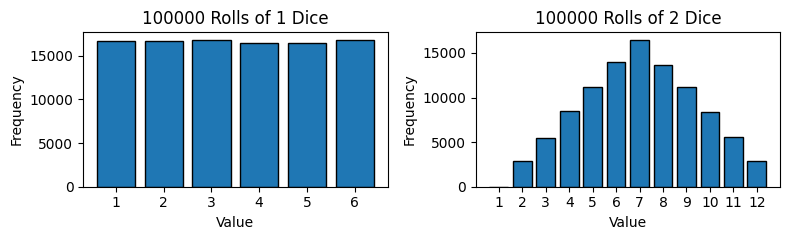
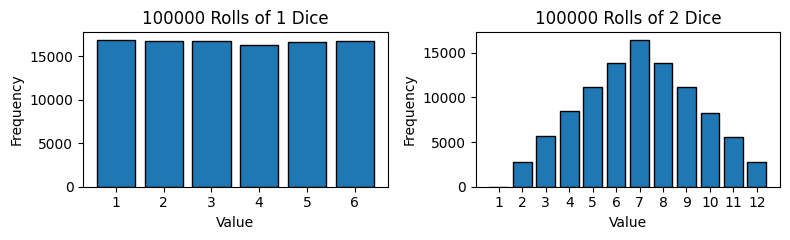
Deploying to gh-pages from @ w4bo/AA2627-unibo-mldm@07caa07ab10c2a81e735dd88d50cfdfee6ba17a9 🚀

diff --git a/06-modeling.html b/06-modeling.html
@@ -289,7 +289,7 @@ Matteo Francia <br> DISI — University of Bologna <br> m.francia@unibo.it
 <li><em>Feature extraction</em>: extract the features from data to define the attributes in image and text data</li>
 </ul></li>
 </ul>
-<div id="80e1c257" class="cell" data-quarto-private-1="{&quot;key&quot;:&quot;execution&quot;,&quot;value&quot;:{&quot;iopub.execute_input&quot;:&quot;2026-06-23T17:44:32.466861Z&quot;,&quot;iopub.status.busy&quot;:&quot;2026-06-23T17:44:32.466692Z&quot;,&quot;iopub.status.idle&quot;:&quot;2026-06-23T17:44:33.526073Z&quot;,&quot;shell.execute_reply&quot;:&quot;2026-06-23T17:44:33.525069Z&quot;}}" data-outputid="19814ad4-7ef0-47a6-c339-2729b5be8854" data-execution_count="1">
+<div id="80e1c257" class="cell" data-quarto-private-1="{&quot;key&quot;:&quot;execution&quot;,&quot;value&quot;:{&quot;iopub.execute_input&quot;:&quot;2026-06-24T06:20:33.725155Z&quot;,&quot;iopub.status.busy&quot;:&quot;2026-06-24T06:20:33.724912Z&quot;,&quot;iopub.status.idle&quot;:&quot;2026-06-24T06:20:34.788092Z&quot;,&quot;shell.execute_reply&quot;:&quot;2026-06-24T06:20:34.787165Z&quot;}}" data-outputid="19814ad4-7ef0-47a6-c339-2729b5be8854" data-execution_count="1">
 <details open="" class="code-fold">
 <summary>Code</summary>
 <div class="sourceCode cell-code" id="cb1"><pre class="sourceCode numberSource python number-lines"><code class="sourceCode python"><span id="cb1-1"><a href=""></a><span class="im">import</span> sklearn <span class="im">as</span> sk</span>
@@ -387,7 +387,7 @@ Matteo Francia <br> DISI — University of Bologna <br> m.francia@unibo.it
 
 <section id="datasets-in-sklearn" class="title-slide slide level1 center">
 <h1>Datasets in sklearn</h1>
-<div id="f54858f9" class="cell" data-quarto-private-1="{&quot;key&quot;:&quot;execution&quot;,&quot;value&quot;:{&quot;iopub.execute_input&quot;:&quot;2026-06-23T17:44:33.528411Z&quot;,&quot;iopub.status.busy&quot;:&quot;2026-06-23T17:44:33.528103Z&quot;,&quot;iopub.status.idle&quot;:&quot;2026-06-23T17:44:33.563940Z&quot;,&quot;shell.execute_reply&quot;:&quot;2026-06-23T17:44:33.563038Z&quot;}}" data-execution_count="2">
+<div id="f54858f9" class="cell" data-quarto-private-1="{&quot;key&quot;:&quot;execution&quot;,&quot;value&quot;:{&quot;iopub.execute_input&quot;:&quot;2026-06-24T06:20:34.790620Z&quot;,&quot;iopub.status.busy&quot;:&quot;2026-06-24T06:20:34.790296Z&quot;,&quot;iopub.status.idle&quot;:&quot;2026-06-24T06:20:34.826530Z&quot;,&quot;shell.execute_reply&quot;:&quot;2026-06-24T06:20:34.825651Z&quot;}}" data-execution_count="2">
 <details open="" class="code-fold">
 <summary>Code</summary>
 <div class="sourceCode cell-code" id="cb12"><pre class="sourceCode numberSource python number-lines"><code class="sourceCode python"><span id="cb12-1"><a href=""></a><span class="im">import</span> sklearn.datasets <span class="im">as</span> datasets</span>
@@ -413,7 +413,7 @@ load_wine</code></pre>
 
 <section id="the-iris-dataset" class="title-slide slide level1 center">
 <h1>The <code>Iris</code> dataset</h1>
-<div id="Y-nsPIhDQe89" class="cell" data-quarto-private-1="{&quot;key&quot;:&quot;execution&quot;,&quot;value&quot;:{&quot;iopub.execute_input&quot;:&quot;2026-06-23T17:44:33.565737Z&quot;,&quot;iopub.status.busy&quot;:&quot;2026-06-23T17:44:33.565559Z&quot;,&quot;iopub.status.idle&quot;:&quot;2026-06-23T17:44:33.581526Z&quot;,&quot;shell.execute_reply&quot;:&quot;2026-06-23T17:44:33.580682Z&quot;}}" data-outputid="d019e408-35e4-4d21-d78a-9b92b6784e2a" data-execution_count="3">
+<div id="Y-nsPIhDQe89" class="cell" data-quarto-private-1="{&quot;key&quot;:&quot;execution&quot;,&quot;value&quot;:{&quot;iopub.execute_input&quot;:&quot;2026-06-24T06:20:34.828344Z&quot;,&quot;iopub.status.busy&quot;:&quot;2026-06-24T06:20:34.828157Z&quot;,&quot;iopub.status.idle&quot;:&quot;2026-06-24T06:20:34.844448Z&quot;,&quot;shell.execute_reply&quot;:&quot;2026-06-24T06:20:34.843629Z&quot;}}" data-outputid="d019e408-35e4-4d21-d78a-9b92b6784e2a" data-execution_count="3">
 <details open="" class="code-fold">
 <summary>Code</summary>
 <div class="sourceCode cell-code" id="cb14"><pre class="sourceCode numberSource python number-lines"><code class="sourceCode python"><span id="cb14-1"><a href=""></a><span class="im">from</span> sklearn.datasets <span class="im">import</span> load_iris</span>
@@ -552,7 +552,7 @@ load_wine</code></pre>
 
 <section id="profiling" class="title-slide slide level1 center">
 <h1>Profiling</h1>
-<div id="ohmh7Kc8Nvm7" class="cell" data-quarto-private-1="{&quot;key&quot;:&quot;execution&quot;,&quot;value&quot;:{&quot;iopub.execute_input&quot;:&quot;2026-06-23T17:44:33.583251Z&quot;,&quot;iopub.status.busy&quot;:&quot;2026-06-23T17:44:33.583049Z&quot;,&quot;iopub.status.idle&quot;:&quot;2026-06-23T17:44:33.590038Z&quot;,&quot;shell.execute_reply&quot;:&quot;2026-06-23T17:44:33.588947Z&quot;}}" data-outputid="3a9f740a-1006-4b5d-9d44-ff192314d6a1" data-execution_count="4">
+<div id="ohmh7Kc8Nvm7" class="cell" data-quarto-private-1="{&quot;key&quot;:&quot;execution&quot;,&quot;value&quot;:{&quot;iopub.execute_input&quot;:&quot;2026-06-24T06:20:34.846514Z&quot;,&quot;iopub.status.busy&quot;:&quot;2026-06-24T06:20:34.846297Z&quot;,&quot;iopub.status.idle&quot;:&quot;2026-06-24T06:20:34.853265Z&quot;,&quot;shell.execute_reply&quot;:&quot;2026-06-24T06:20:34.852370Z&quot;}}" data-outputid="3a9f740a-1006-4b5d-9d44-ff192314d6a1" data-execution_count="4">
 <details open="" class="code-fold">
 <summary>Code</summary>
 <div class="sourceCode cell-code" id="cb15"><pre class="sourceCode numberSource python number-lines"><code class="sourceCode python"><span id="cb15-1"><a href=""></a>df.info()</span></code></pre></div>
@@ -576,7 +576,7 @@ memory usage: 6.0 KB</code></pre>
 
 <section id="training-and-test-sets-1" class="title-slide slide level1 center">
 <h1>Training and test sets</h1>
-<div id="fOKkpeA2NeEs" class="cell" data-quarto-private-1="{&quot;key&quot;:&quot;execution&quot;,&quot;value&quot;:{&quot;iopub.execute_input&quot;:&quot;2026-06-23T17:44:33.591752Z&quot;,&quot;iopub.status.busy&quot;:&quot;2026-06-23T17:44:33.591579Z&quot;,&quot;iopub.status.idle&quot;:&quot;2026-06-23T17:44:33.618054Z&quot;,&quot;shell.execute_reply&quot;:&quot;2026-06-23T17:44:33.617308Z&quot;}}" data-execution_count="5">
+<div id="fOKkpeA2NeEs" class="cell" data-quarto-private-1="{&quot;key&quot;:&quot;execution&quot;,&quot;value&quot;:{&quot;iopub.execute_input&quot;:&quot;2026-06-24T06:20:34.855248Z&quot;,&quot;iopub.status.busy&quot;:&quot;2026-06-24T06:20:34.854926Z&quot;,&quot;iopub.status.idle&quot;:&quot;2026-06-24T06:20:34.882651Z&quot;,&quot;shell.execute_reply&quot;:&quot;2026-06-24T06:20:34.881802Z&quot;}}" data-execution_count="5">
 <details open="" class="code-fold">
 <summary>Code</summary>
 <div class="sourceCode cell-code" id="cb17"><pre class="sourceCode numberSource python number-lines"><code class="sourceCode python"><span id="cb17-1"><a href=""></a><span class="co"># Split the data into training and test sets</span></span>
@@ -614,7 +614,7 @@ y_test: (30,)</code></pre>
 <section id="section-1" class="title-slide slide level1 center">
 <h1></h1>
 <p>When throwing two dice, the outcome of any roll is unpredictable, but a sum of 7 will tend to occur twice as often as 4</p>
-<div id="a1a121cf" class="cell" data-quarto-private-1="{&quot;key&quot;:&quot;execution&quot;,&quot;value&quot;:{&quot;iopub.execute_input&quot;:&quot;2026-06-23T17:44:33.620063Z&quot;,&quot;iopub.status.busy&quot;:&quot;2026-06-23T17:44:33.619889Z&quot;,&quot;iopub.status.idle&quot;:&quot;2026-06-23T17:44:37.680121Z&quot;,&quot;shell.execute_reply&quot;:&quot;2026-06-23T17:44:37.679276Z&quot;}}" data-execution_count="6">
+<div id="a1a121cf" class="cell" data-quarto-private-1="{&quot;key&quot;:&quot;execution&quot;,&quot;value&quot;:{&quot;iopub.execute_input&quot;:&quot;2026-06-24T06:20:34.884546Z&quot;,&quot;iopub.status.busy&quot;:&quot;2026-06-24T06:20:34.884345Z&quot;,&quot;iopub.status.idle&quot;:&quot;2026-06-24T06:20:38.672846Z&quot;,&quot;shell.execute_reply&quot;:&quot;2026-06-24T06:20:38.671817Z&quot;}}" data-execution_count="6">
 <details open="" class="code-fold">
 <summary>Code</summary>
 <div class="sourceCode cell-code" id="cb19"><pre class="sourceCode numberSource python number-lines"><code class="sourceCode python"><span id="cb19-1"><a href=""></a><span class="im">import</span> matplotlib.pyplot <span class="im">as</span> plt</span>
@@ -641,7 +641,7 @@ y_test: (30,)</code></pre>
 <li>The PRNG-generated sequence is not truly random, because it is completely determined by an initial value, called <em>seed</em></li>
 <li>Pseudorandom number generators are important in practice for their reproducibility.</li>
 </ul>
-<div id="4210a099" class="cell" data-quarto-private-1="{&quot;key&quot;:&quot;execution&quot;,&quot;value&quot;:{&quot;iopub.execute_input&quot;:&quot;2026-06-23T17:44:37.682425Z&quot;,&quot;iopub.status.busy&quot;:&quot;2026-06-23T17:44:37.682096Z&quot;,&quot;iopub.status.idle&quot;:&quot;2026-06-23T17:44:37.687859Z&quot;,&quot;shell.execute_reply&quot;:&quot;2026-06-23T17:44:37.686882Z&quot;}}" data-execution_count="7">
+<div id="4210a099" class="cell" data-quarto-private-1="{&quot;key&quot;:&quot;execution&quot;,&quot;value&quot;:{&quot;iopub.execute_input&quot;:&quot;2026-06-24T06:20:38.674874Z&quot;,&quot;iopub.status.busy&quot;:&quot;2026-06-24T06:20:38.674556Z&quot;,&quot;iopub.status.idle&quot;:&quot;2026-06-24T06:20:38.679913Z&quot;,&quot;shell.execute_reply&quot;:&quot;2026-06-24T06:20:38.679094Z&quot;}}" data-execution_count="7">
 <details open="" class="code-fold">
 <summary>Code</summary>
 <div class="sourceCode cell-code" id="cb20"><pre class="sourceCode numberSource python number-lines"><code class="sourceCode python"><span id="cb20-1"><a href=""></a><span class="bu">print</span>(np.random.randint(<span class="dv">1</span>, <span class="dv">7</span>, size<span class="op">=</span><span class="dv">10</span>))</span>
@@ -655,8 +655,8 @@ y_test: (30,)</code></pre>
 <span id="cb20-9"><a href=""></a><span class="bu">print</span>(np.random.randint(<span class="dv">1</span>, <span class="dv">7</span>, size<span class="op">=</span><span class="dv">10</span>))</span></code></pre></div>
 </details>
 <div class="cell-output cell-output-stdout">
-<pre><code>[2 4 3 5 2 5 4 3 6 6]
-[1 5 6 5 4 3 4 6 4 3]
+<pre><code>[5 2 6 1 3 1 6 1 1 3]
+[2 6 5 2 4 3 2 5 1 1]
 [4 5 3 5 5 2 3 3 3 5]
 [4 5 3 5 5 2 3 3 3 5]
 [4 5 3 5 5 2 3 3 3 5]
@@ -704,7 +704,7 @@ y_test: (30,)</code></pre>
 <section>
 <section id="decision-tree" class="title-slide slide level1 center">
 <h1>Decision tree</h1>
-<div id="qRGDyke9OGij" class="cell" data-quarto-private-1="{&quot;key&quot;:&quot;execution&quot;,&quot;value&quot;:{&quot;iopub.execute_input&quot;:&quot;2026-06-23T17:44:37.689721Z&quot;,&quot;iopub.status.busy&quot;:&quot;2026-06-23T17:44:37.689548Z&quot;,&quot;iopub.status.idle&quot;:&quot;2026-06-23T17:44:37.747371Z&quot;,&quot;shell.execute_reply&quot;:&quot;2026-06-23T17:44:37.746514Z&quot;}}" data-outputid="28adc7ac-dafc-4623-98c5-dda0795d6ca5" data-execution_count="8">
+<div id="qRGDyke9OGij" class="cell" data-quarto-private-1="{&quot;key&quot;:&quot;execution&quot;,&quot;value&quot;:{&quot;iopub.execute_input&quot;:&quot;2026-06-24T06:20:38.682132Z&quot;,&quot;iopub.status.busy&quot;:&quot;2026-06-24T06:20:38.681953Z&quot;,&quot;iopub.status.idle&quot;:&quot;2026-06-24T06:20:38.742060Z&quot;,&quot;shell.execute_reply&quot;:&quot;2026-06-24T06:20:38.741144Z&quot;}}" data-outputid="28adc7ac-dafc-4623-98c5-dda0795d6ca5" data-execution_count="8">
 <details open="" class="code-fold">
 <summary>Code</summary>
 <div class="sourceCode cell-code" id="cb22"><pre class="sourceCode numberSource python number-lines"><code class="sourceCode python"><span id="cb22-1"><a href=""></a><span class="im">from</span> sklearn.tree <span class="im">import</span> DecisionTreeClassifier  <span class="co"># Import the model</span></span>
@@ -722,7 +722,7 @@ y_test: (30,)</code></pre>
 </section>
 <section id="plotting-the-tree" class="slide level2">
 <h2>Plotting the tree</h2>
-<div id="TCYt3BziRjqK" class="cell" data-quarto-private-1="{&quot;key&quot;:&quot;execution&quot;,&quot;value&quot;:{&quot;iopub.execute_input&quot;:&quot;2026-06-23T17:44:37.749142Z&quot;,&quot;iopub.status.busy&quot;:&quot;2026-06-23T17:44:37.748964Z&quot;,&quot;iopub.status.idle&quot;:&quot;2026-06-23T17:44:37.899132Z&quot;,&quot;shell.execute_reply&quot;:&quot;2026-06-23T17:44:37.898324Z&quot;}}" data-outputid="a5c6ce55-6e0d-4504-e4c8-408382791a1d" data-execution_count="9">
+<div id="TCYt3BziRjqK" class="cell" data-quarto-private-1="{&quot;key&quot;:&quot;execution&quot;,&quot;value&quot;:{&quot;iopub.execute_input&quot;:&quot;2026-06-24T06:20:38.743922Z&quot;,&quot;iopub.status.busy&quot;:&quot;2026-06-24T06:20:38.743730Z&quot;,&quot;iopub.status.idle&quot;:&quot;2026-06-24T06:20:38.899183Z&quot;,&quot;shell.execute_reply&quot;:&quot;2026-06-24T06:20:38.898260Z&quot;}}" data-outputid="a5c6ce55-6e0d-4504-e4c8-408382791a1d" data-execution_count="9">
 <details open="" class="code-fold">
 <summary>Code</summary>
 <div class="sourceCode cell-code" id="cb24"><pre class="sourceCode numberSource python number-lines"><code class="sourceCode python"><span id="cb24-1"><a href=""></a><span class="im">from</span> sklearn.tree <span class="im">import</span> plot_tree</span>
@@ -732,7 +732,7 @@ y_test: (30,)</code></pre>
 
 </div>
 <img data-src="06-modeling_files/figure-revealjs/cell-10-output-1.png" class="r-stretch"><p>Checking feature relevance</p>
-<div id="JV7m4ZKqPaJm" class="cell" data-quarto-private-1="{&quot;key&quot;:&quot;execution&quot;,&quot;value&quot;:{&quot;iopub.execute_input&quot;:&quot;2026-06-23T17:44:37.901072Z&quot;,&quot;iopub.status.busy&quot;:&quot;2026-06-23T17:44:37.900896Z&quot;,&quot;iopub.status.idle&quot;:&quot;2026-06-23T17:44:37.909551Z&quot;,&quot;shell.execute_reply&quot;:&quot;2026-06-23T17:44:37.908672Z&quot;}}" data-outputid="efeb6271-4cec-4fcb-b621-84f298272ad7" data-execution_count="10">
+<div id="JV7m4ZKqPaJm" class="cell" data-quarto-private-1="{&quot;key&quot;:&quot;execution&quot;,&quot;value&quot;:{&quot;iopub.execute_input&quot;:&quot;2026-06-24T06:20:38.901129Z&quot;,&quot;iopub.status.busy&quot;:&quot;2026-06-24T06:20:38.900918Z&quot;,&quot;iopub.status.idle&quot;:&quot;2026-06-24T06:20:38.910278Z&quot;,&quot;shell.execute_reply&quot;:&quot;2026-06-24T06:20:38.909375Z&quot;}}" data-outputid="efeb6271-4cec-4fcb-b621-84f298272ad7" data-execution_count="10">
 <details open="" class="code-fold">
 <summary>Code</summary>
 <div class="sourceCode cell-code" id="cb25"><pre class="sourceCode numberSource python number-lines"><code class="sourceCode python"><span id="cb25-1"><a href=""></a>feature_importance_df <span class="op">=</span> pd.DataFrame({<span class="st">'Feature'</span>: X.columns, <span class="st">'Importance'</span>: clf.feature_importances_})  <span class="co"># Create a DataFrame to display feature importance</span></span>
@@ -793,7 +793,7 @@ y_test: (30,)</code></pre>
 </section></section>
 <section id="petal-vs-sepal" class="title-slide slide level1 center">
 <h1><code>petal</code> vs <code>sepal</code></h1>
-<div id="8h4GlwOOPlz3" class="cell" data-quarto-private-1="{&quot;key&quot;:&quot;execution&quot;,&quot;value&quot;:{&quot;iopub.execute_input&quot;:&quot;2026-06-23T17:44:37.917411Z&quot;,&quot;iopub.status.busy&quot;:&quot;2026-06-23T17:44:37.917222Z&quot;,&quot;iopub.status.idle&quot;:&quot;2026-06-23T17:44:38.011081Z&quot;,&quot;shell.execute_reply&quot;:&quot;2026-06-23T17:44:38.010202Z&quot;}}" data-outputid="a3ff9957-5136-4fe3-d3e0-dc7a7ddf2bfe" data-execution_count="12">
+<div id="8h4GlwOOPlz3" class="cell" data-quarto-private-1="{&quot;key&quot;:&quot;execution&quot;,&quot;value&quot;:{&quot;iopub.execute_input&quot;:&quot;2026-06-24T06:20:38.918287Z&quot;,&quot;iopub.status.busy&quot;:&quot;2026-06-24T06:20:38.918095Z&quot;,&quot;iopub.status.idle&quot;:&quot;2026-06-24T06:20:39.014715Z&quot;,&quot;shell.execute_reply&quot;:&quot;2026-06-24T06:20:39.013778Z&quot;}}" data-outputid="a3ff9957-5136-4fe3-d3e0-dc7a7ddf2bfe" data-execution_count="12">
 <details open="" class="code-fold">
 <summary>Code</summary>
 <div class="sourceCode cell-code" id="cb26"><pre class="sourceCode numberSource python number-lines"><code class="sourceCode python"><span id="cb26-1"><a href=""></a>plot(df, clf, feature_importance_df[<span class="st">'Feature'</span>].iloc[:<span class="dv">2</span>].tolist())  <span class="co"># plot the 2 most important features</span></span></code></pre></div>
@@ -806,7 +806,7 @@ y_test: (30,)</code></pre>
 </div>
 </div>
 </div>
-<div id="nFNaqWIOT-Rd" class="cell" data-quarto-private-1="{&quot;key&quot;:&quot;execution&quot;,&quot;value&quot;:{&quot;iopub.execute_input&quot;:&quot;2026-06-23T17:44:38.012749Z&quot;,&quot;iopub.status.busy&quot;:&quot;2026-06-23T17:44:38.012573Z&quot;,&quot;iopub.status.idle&quot;:&quot;2026-06-23T17:44:38.107006Z&quot;,&quot;shell.execute_reply&quot;:&quot;2026-06-23T17:44:38.106178Z&quot;}}" data-outputid="e57d7a46-c26b-4bfc-c956-f67944b26ada" data-execution_count="13">
+<div id="nFNaqWIOT-Rd" class="cell" data-quarto-private-1="{&quot;key&quot;:&quot;execution&quot;,&quot;value&quot;:{&quot;iopub.execute_input&quot;:&quot;2026-06-24T06:20:39.016755Z&quot;,&quot;iopub.status.busy&quot;:&quot;2026-06-24T06:20:39.016389Z&quot;,&quot;iopub.status.idle&quot;:&quot;2026-06-24T06:20:39.114905Z&quot;,&quot;shell.execute_reply&quot;:&quot;2026-06-24T06:20:39.113927Z&quot;}}" data-outputid="e57d7a46-c26b-4bfc-c956-f67944b26ada" data-execution_count="13">
 <details open="" class="code-fold">
 <summary>Code</summary>
 <div class="sourceCode cell-code" id="cb27"><pre class="sourceCode numberSource python number-lines"><code class="sourceCode python"><span id="cb27-1"><a href=""></a>plot(df, clf, feature_importance_df[<span class="st">'Feature'</span>].iloc[<span class="dv">2</span>:].tolist())  <span class="co"># plot the 2 lest important features</span></span></code></pre></div>
@@ -823,7 +823,7 @@ y_test: (30,)</code></pre>
 
 <section id="feature-selection-checking-correlations" class="title-slide slide level1 center">
 <h1>Feature selection: checking correlations</h1>
-<div id="e8799449" class="cell" data-quarto-private-1="{&quot;key&quot;:&quot;execution&quot;,&quot;value&quot;:{&quot;iopub.execute_input&quot;:&quot;2026-06-23T17:44:38.108770Z&quot;,&quot;iopub.status.busy&quot;:&quot;2026-06-23T17:44:38.108594Z&quot;,&quot;iopub.status.idle&quot;:&quot;2026-06-23T17:44:38.115945Z&quot;,&quot;shell.execute_reply&quot;:&quot;2026-06-23T17:44:38.114934Z&quot;}}" data-execution_count="14">
+<div id="e8799449" class="cell" data-quarto-private-1="{&quot;key&quot;:&quot;execution&quot;,&quot;value&quot;:{&quot;iopub.execute_input&quot;:&quot;2026-06-24T06:20:39.116810Z&quot;,&quot;iopub.status.busy&quot;:&quot;2026-06-24T06:20:39.116610Z&quot;,&quot;iopub.status.idle&quot;:&quot;2026-06-24T06:20:39.124271Z&quot;,&quot;shell.execute_reply&quot;:&quot;2026-06-24T06:20:39.123500Z&quot;}}" data-execution_count="14">
 <details open="" class="code-fold">
 <summary>Code</summary>
 <div class="sourceCode cell-code" id="cb28"><pre class="sourceCode numberSource python number-lines"><code class="sourceCode python"><span id="cb28-1"><a href=""></a>X_train.corr(method<span class="op">=</span><span class="st">'pearson'</span>, numeric_only<span class="op">=</span><span class="va">True</span>)</span></code></pre></div>
@@ -898,7 +898,7 @@ y_test: (30,)</code></pre>
 
 <section id="decision-boundaries-max_depth1" class="title-slide slide level1 center">
 <h1>Decision boundaries: <code>max_depth=1</code></h1>
-<div id="5d66e1c0" class="cell" data-quarto-private-1="{&quot;key&quot;:&quot;execution&quot;,&quot;value&quot;:{&quot;iopub.execute_input&quot;:&quot;2026-06-23T17:44:38.129715Z&quot;,&quot;iopub.status.busy&quot;:&quot;2026-06-23T17:44:38.129546Z&quot;,&quot;iopub.status.idle&quot;:&quot;2026-06-23T17:44:38.543421Z&quot;,&quot;shell.execute_reply&quot;:&quot;2026-06-23T17:44:38.542472Z&quot;}}" data-execution_count="16">
+<div id="5d66e1c0" class="cell" data-quarto-private-1="{&quot;key&quot;:&quot;execution&quot;,&quot;value&quot;:{&quot;iopub.execute_input&quot;:&quot;2026-06-24T06:20:39.138550Z&quot;,&quot;iopub.status.busy&quot;:&quot;2026-06-24T06:20:39.138341Z&quot;,&quot;iopub.status.idle&quot;:&quot;2026-06-24T06:20:39.556670Z&quot;,&quot;shell.execute_reply&quot;:&quot;2026-06-24T06:20:39.555631Z&quot;}}" data-execution_count="16">
 <details open="" class="code-fold">
 <summary>Code</summary>
 <div class="sourceCode cell-code" id="cb29"><pre class="sourceCode numberSource python number-lines"><code class="sourceCode python"><span id="cb29-1"><a href=""></a>tree <span class="op">=</span> plot_boundary(DecisionTreeClassifier(max_depth<span class="op">=</span><span class="dv">1</span>, random_state<span class="op">=</span>seed), <span class="st">"decisiontree_cplot"</span>)</span></code></pre></div>
@@ -909,7 +909,7 @@ y_test: (30,)</code></pre>
 
 <section id="decision-boundaries-max_depth2" class="title-slide slide level1 center">
 <h1>Decision boundaries: <code>max_depth=2</code></h1>
-<div id="a334f69e" class="cell" data-quarto-private-1="{&quot;key&quot;:&quot;execution&quot;,&quot;value&quot;:{&quot;iopub.execute_input&quot;:&quot;2026-06-23T17:44:38.545490Z&quot;,&quot;iopub.status.busy&quot;:&quot;2026-06-23T17:44:38.545309Z&quot;,&quot;iopub.status.idle&quot;:&quot;2026-06-23T17:44:38.954492Z&quot;,&quot;shell.execute_reply&quot;:&quot;2026-06-23T17:44:38.953459Z&quot;}}" data-execution_count="17">
+<div id="a334f69e" class="cell" data-quarto-private-1="{&quot;key&quot;:&quot;execution&quot;,&quot;value&quot;:{&quot;iopub.execute_input&quot;:&quot;2026-06-24T06:20:39.558678Z&quot;,&quot;iopub.status.busy&quot;:&quot;2026-06-24T06:20:39.558469Z&quot;,&quot;iopub.status.idle&quot;:&quot;2026-06-24T06:20:39.979079Z&quot;,&quot;shell.execute_reply&quot;:&quot;2026-06-24T06:20:39.978118Z&quot;}}" data-execution_count="17">
 <details open="" class="code-fold">
 <summary>Code</summary>
 <div class="sourceCode cell-code" id="cb30"><pre class="sourceCode numberSource python number-lines"><code class="sourceCode python"><span id="cb30-1"><a href=""></a>tree <span class="op">=</span> plot_boundary(DecisionTreeClassifier(max_depth<span class="op">=</span><span class="dv">2</span>, random_state<span class="op">=</span>seed), <span class="st">"decisiontree_cplot"</span>)</span></code></pre></div>
@@ -920,7 +920,7 @@ y_test: (30,)</code></pre>
 
 <section id="decision-boundaries-max_depth2-changing-the-random-seed" class="title-slide slide level1 center">
 <h1>Decision boundaries: <code>max_depth=2</code> (changing the random seed)</h1>
-<div id="648564ec" class="cell" data-quarto-private-1="{&quot;key&quot;:&quot;execution&quot;,&quot;value&quot;:{&quot;iopub.execute_input&quot;:&quot;2026-06-23T17:44:38.956439Z&quot;,&quot;iopub.status.busy&quot;:&quot;2026-06-23T17:44:38.956247Z&quot;,&quot;iopub.status.idle&quot;:&quot;2026-06-23T17:44:39.374906Z&quot;,&quot;shell.execute_reply&quot;:&quot;2026-06-23T17:44:39.373947Z&quot;}}" data-execution_count="18">
+<div id="648564ec" class="cell" data-quarto-private-1="{&quot;key&quot;:&quot;execution&quot;,&quot;value&quot;:{&quot;iopub.execute_input&quot;:&quot;2026-06-24T06:20:39.980942Z&quot;,&quot;iopub.status.busy&quot;:&quot;2026-06-24T06:20:39.980747Z&quot;,&quot;iopub.status.idle&quot;:&quot;2026-06-24T06:20:40.398856Z&quot;,&quot;shell.execute_reply&quot;:&quot;2026-06-24T06:20:40.397869Z&quot;}}" data-execution_count="18">
 <details open="" class="code-fold">
 <summary>Code</summary>
 <div class="sourceCode cell-code" id="cb31"><pre class="sourceCode numberSource python number-lines"><code class="sourceCode python"><span id="cb31-1"><a href=""></a>tree <span class="op">=</span> plot_boundary(DecisionTreeClassifier(max_depth<span class="op">=</span><span class="dv">2</span>, random_state<span class="op">=</span><span class="dv">1</span>), <span class="st">"decisiontree_cplot"</span>)</span></code></pre></div>
@@ -931,7 +931,7 @@ y_test: (30,)</code></pre>
 
 <section id="decision-boundaries-max_depth3" class="title-slide slide level1 center">
 <h1>Decision boundaries: <code>max_depth=3</code></h1>
-<div id="11077234" class="cell" data-quarto-private-1="{&quot;key&quot;:&quot;execution&quot;,&quot;value&quot;:{&quot;iopub.execute_input&quot;:&quot;2026-06-23T17:44:39.376817Z&quot;,&quot;iopub.status.busy&quot;:&quot;2026-06-23T17:44:39.376616Z&quot;,&quot;iopub.status.idle&quot;:&quot;2026-06-23T17:44:39.831112Z&quot;,&quot;shell.execute_reply&quot;:&quot;2026-06-23T17:44:39.830317Z&quot;}}" data-execution_count="19">
+<div id="11077234" class="cell" data-quarto-private-1="{&quot;key&quot;:&quot;execution&quot;,&quot;value&quot;:{&quot;iopub.execute_input&quot;:&quot;2026-06-24T06:20:40.400863Z&quot;,&quot;iopub.status.busy&quot;:&quot;2026-06-24T06:20:40.400672Z&quot;,&quot;iopub.status.idle&quot;:&quot;2026-06-24T06:20:40.816309Z&quot;,&quot;shell.execute_reply&quot;:&quot;2026-06-24T06:20:40.815228Z&quot;}}" data-execution_count="19">
 <details open="" class="code-fold">
 <summary>Code</summary>
 <div class="sourceCode cell-code" id="cb32"><pre class="sourceCode numberSource python number-lines"><code class="sourceCode python"><span id="cb32-1"><a href=""></a>tree <span class="op">=</span> plot_boundary(DecisionTreeClassifier(max_depth<span class="op">=</span><span class="dv">3</span>, random_state<span class="op">=</span>seed), <span class="st">"decisiontree_cplot"</span>)</span></code></pre></div>
@@ -942,7 +942,7 @@ y_test: (30,)</code></pre>
 
 <section id="decision-boundaries-max_depth6" class="title-slide slide level1 center">
 <h1>Decision boundaries: <code>max_depth=6</code></h1>
-<div id="6fd5a7ac" class="cell" data-quarto-private-1="{&quot;key&quot;:&quot;execution&quot;,&quot;value&quot;:{&quot;iopub.execute_input&quot;:&quot;2026-06-23T17:44:39.833409Z&quot;,&quot;iopub.status.busy&quot;:&quot;2026-06-23T17:44:39.833221Z&quot;,&quot;iopub.status.idle&quot;:&quot;2026-06-23T17:44:40.286110Z&quot;,&quot;shell.execute_reply&quot;:&quot;2026-06-23T17:44:40.285166Z&quot;}}" data-execution_count="20">
+<div id="6fd5a7ac" class="cell" data-quarto-private-1="{&quot;key&quot;:&quot;execution&quot;,&quot;value&quot;:{&quot;iopub.execute_input&quot;:&quot;2026-06-24T06:20:40.818291Z&quot;,&quot;iopub.status.busy&quot;:&quot;2026-06-24T06:20:40.818098Z&quot;,&quot;iopub.status.idle&quot;:&quot;2026-06-24T06:20:41.234736Z&quot;,&quot;shell.execute_reply&quot;:&quot;2026-06-24T06:20:41.233851Z&quot;}}" data-execution_count="20">
 <details open="" class="code-fold">
 <summary>Code</summary>
 <div class="sourceCode cell-code" id="cb33"><pre class="sourceCode numberSource python number-lines"><code class="sourceCode python"><span id="cb33-1"><a href=""></a>tree <span class="op">=</span> plot_boundary(DecisionTreeClassifier(max_depth<span class="op">=</span><span class="dv">6</span>, random_state<span class="op">=</span>seed), <span class="st">"decisiontree_cplot"</span>)</span></code></pre></div>
@@ -953,7 +953,7 @@ y_test: (30,)</code></pre>
 
 <section id="plotting-the-accuracy" class="title-slide slide level1 center">
 <h1>Plotting the accuracy</h1>
-<div id="b0ec6d95" class="cell" data-quarto-private-1="{&quot;key&quot;:&quot;execution&quot;,&quot;value&quot;:{&quot;iopub.execute_input&quot;:&quot;2026-06-23T17:44:40.288215Z&quot;,&quot;iopub.status.busy&quot;:&quot;2026-06-23T17:44:40.287983Z&quot;,&quot;iopub.status.idle&quot;:&quot;2026-06-23T17:44:40.439068Z&quot;,&quot;shell.execute_reply&quot;:&quot;2026-06-23T17:44:40.438282Z&quot;}}" data-execution_count="21">
+<div id="b0ec6d95" class="cell" data-quarto-private-1="{&quot;key&quot;:&quot;execution&quot;,&quot;value&quot;:{&quot;iopub.execute_input&quot;:&quot;2026-06-24T06:20:41.236783Z&quot;,&quot;iopub.status.busy&quot;:&quot;2026-06-24T06:20:41.236576Z&quot;,&quot;iopub.status.idle&quot;:&quot;2026-06-24T06:20:41.390033Z&quot;,&quot;shell.execute_reply&quot;:&quot;2026-06-24T06:20:41.389079Z&quot;}}" data-execution_count="21">
 <details open="" class="code-fold">
 <summary>Code</summary>
 <div class="sourceCode cell-code" id="cb34"><pre class="sourceCode numberSource python number-lines"><code class="sourceCode python"><span id="cb34-1"><a href=""></a><span class="co"># Prepare to store max_depth values and corresponding accuracies</span></span>
@@ -1062,7 +1062,7 @@ y_test: (30,)</code></pre>
 
 <section id="random-forest" class="title-slide slide level1 center">
 <h1>Random forest</h1>
-<div id="aa8c6cae" class="cell" data-quarto-private-1="{&quot;key&quot;:&quot;execution&quot;,&quot;value&quot;:{&quot;iopub.execute_input&quot;:&quot;2026-06-23T17:44:40.801904Z&quot;,&quot;iopub.status.busy&quot;:&quot;2026-06-23T17:44:40.801724Z&quot;,&quot;iopub.status.idle&quot;:&quot;2026-06-23T17:44:58.669276Z&quot;,&quot;shell.execute_reply&quot;:&quot;2026-06-23T17:44:58.668285Z&quot;}}" data-execution_count="24">
+<div id="aa8c6cae" class="cell" data-quarto-private-1="{&quot;key&quot;:&quot;execution&quot;,&quot;value&quot;:{&quot;iopub.execute_input&quot;:&quot;2026-06-24T06:20:41.758116Z&quot;,&quot;iopub.status.busy&quot;:&quot;2026-06-24T06:20:41.757906Z&quot;,&quot;iopub.status.idle&quot;:&quot;2026-06-24T06:20:59.487748Z&quot;,&quot;shell.execute_reply&quot;:&quot;2026-06-24T06:20:59.486679Z&quot;}}" data-execution_count="24">
 <details open="" class="code-fold">
 <summary>Code</summary>
 <div class="sourceCode cell-code" id="cb36"><pre class="sourceCode numberSource python number-lines"><code class="sourceCode python"><span id="cb36-1"><a href=""></a><span class="im">from</span> sklearn.model_selection <span class="im">import</span> RandomizedSearchCV</span>
@@ -1103,7 +1103,7 @@ Best Cross-validation Accuracy: 0.9583333333333334 Test Set Accuracy with Best P
 
 <section id="decision-boundaries-k1-no-normalization" class="title-slide slide level1 center">
 <h1>Decision boundaries: <code>k=1</code> (no normalization)</h1>
-<div id="313f0aeb" class="cell" data-quarto-private-1="{&quot;key&quot;:&quot;execution&quot;,&quot;value&quot;:{&quot;iopub.execute_input&quot;:&quot;2026-06-23T17:44:58.859957Z&quot;,&quot;iopub.status.busy&quot;:&quot;2026-06-23T17:44:58.859784Z&quot;,&quot;iopub.status.idle&quot;:&quot;2026-06-23T17:44:59.816934Z&quot;,&quot;shell.execute_reply&quot;:&quot;2026-06-23T17:44:59.815969Z&quot;}}" data-execution_count="26">
+<div id="313f0aeb" class="cell" data-quarto-private-1="{&quot;key&quot;:&quot;execution&quot;,&quot;value&quot;:{&quot;iopub.execute_input&quot;:&quot;2026-06-24T06:20:59.677942Z&quot;,&quot;iopub.status.busy&quot;:&quot;2026-06-24T06:20:59.677756Z&quot;,&quot;iopub.status.idle&quot;:&quot;2026-06-24T06:21:00.634758Z&quot;,&quot;shell.execute_reply&quot;:&quot;2026-06-24T06:21:00.633812Z&quot;}}" data-execution_count="26">
 <details open="" class="code-fold">
 <summary>Code</summary>
 <div class="sourceCode cell-code" id="cb38"><pre class="sourceCode numberSource python number-lines"><code class="sourceCode python"><span id="cb38-1"><a href=""></a><span class="im">from</span> sklearn.neighbors <span class="im">import</span> KNeighborsClassifier</span>
@@ -1116,7 +1116,7 @@ Best Cross-validation Accuracy: 0.9583333333333334 Test Set Accuracy with Best P
 
 <section id="decision-boundaries-k1-min-max-normalization" class="title-slide slide level1 center">
 <h1>Decision boundaries: <code>k=1</code> (min-max normalization)</h1>
-<div id="fd0b352a" class="cell" data-quarto-private-1="{&quot;key&quot;:&quot;execution&quot;,&quot;value&quot;:{&quot;iopub.execute_input&quot;:&quot;2026-06-23T17:44:59.818924Z&quot;,&quot;iopub.status.busy&quot;:&quot;2026-06-23T17:44:59.818725Z&quot;,&quot;iopub.status.idle&quot;:&quot;2026-06-23T17:45:00.130168Z&quot;,&quot;shell.execute_reply&quot;:&quot;2026-06-23T17:45:00.129097Z&quot;}}" data-execution_count="27">
+<div id="fd0b352a" class="cell" data-quarto-private-1="{&quot;key&quot;:&quot;execution&quot;,&quot;value&quot;:{&quot;iopub.execute_input&quot;:&quot;2026-06-24T06:21:00.636606Z&quot;,&quot;iopub.status.busy&quot;:&quot;2026-06-24T06:21:00.636382Z&quot;,&quot;iopub.status.idle&quot;:&quot;2026-06-24T06:21:00.950208Z&quot;,&quot;shell.execute_reply&quot;:&quot;2026-06-24T06:21:00.949197Z&quot;}}" data-execution_count="27">
 <details open="" class="code-fold">
 <summary>Code</summary>
 <div class="sourceCode cell-code" id="cb39"><pre class="sourceCode numberSource python number-lines"><code class="sourceCode python"><span id="cb39-1"><a href=""></a>knn <span class="op">=</span> plot_boundary(KNeighborsClassifier(n_neighbors<span class="op">=</span><span class="dv">1</span>), <span class="st">"knn_cplot"</span>, norm<span class="op">=</span><span class="va">True</span>)</span></code></pre></div>
@@ -1127,7 +1127,7 @@ Best Cross-validation Accuracy: 0.9583333333333334 Test Set Accuracy with Best P
 
 <section id="decision-boundaries-k10-min-max-normalization" class="title-slide slide level1 center">
 <h1>Decision boundaries: <code>k=10</code> (min-max normalization)</h1>
-<div id="8c2f5371" class="cell" data-quarto-private-1="{&quot;key&quot;:&quot;execution&quot;,&quot;value&quot;:{&quot;iopub.execute_input&quot;:&quot;2026-06-23T17:45:00.131960Z&quot;,&quot;iopub.status.busy&quot;:&quot;2026-06-23T17:45:00.131779Z&quot;,&quot;iopub.status.idle&quot;:&quot;2026-06-23T17:45:00.518788Z&quot;,&quot;shell.execute_reply&quot;:&quot;2026-06-23T17:45:00.517867Z&quot;}}" data-execution_count="28">
+<div id="8c2f5371" class="cell" data-quarto-private-1="{&quot;key&quot;:&quot;execution&quot;,&quot;value&quot;:{&quot;iopub.execute_input&quot;:&quot;2026-06-24T06:21:00.952262Z&quot;,&quot;iopub.status.busy&quot;:&quot;2026-06-24T06:21:00.952066Z&quot;,&quot;iopub.status.idle&quot;:&quot;2026-06-24T06:21:01.335558Z&quot;,&quot;shell.execute_reply&quot;:&quot;2026-06-24T06:21:01.334592Z&quot;}}" data-execution_count="28">
 <details open="" class="code-fold">
 <summary>Code</summary>
 <div class="sourceCode cell-code" id="cb40"><pre class="sourceCode numberSource python number-lines"><code class="sourceCode python"><span id="cb40-1"><a href=""></a>knn <span class="op">=</span> plot_boundary(KNeighborsClassifier(n_neighbors<span class="op">=</span><span class="dv">10</span>), <span class="st">"knn_cplot"</span>, norm<span class="op">=</span><span class="va">True</span>)</span></code></pre></div>
@@ -1138,7 +1138,7 @@ Best Cross-validation Accuracy: 0.9583333333333334 Test Set Accuracy with Best P
 
 <section id="plotting-the-accuracy-1" class="title-slide slide level1 center">
 <h1>Plotting the accuracy</h1>
-<div id="40f79431" class="cell" data-quarto-private-1="{&quot;key&quot;:&quot;execution&quot;,&quot;value&quot;:{&quot;iopub.execute_input&quot;:&quot;2026-06-23T17:45:00.520884Z&quot;,&quot;iopub.status.busy&quot;:&quot;2026-06-23T17:45:00.520701Z&quot;,&quot;iopub.status.idle&quot;:&quot;2026-06-23T17:45:00.706103Z&quot;,&quot;shell.execute_reply&quot;:&quot;2026-06-23T17:45:00.705174Z&quot;}}" data-execution_count="29">
+<div id="40f79431" class="cell" data-quarto-private-1="{&quot;key&quot;:&quot;execution&quot;,&quot;value&quot;:{&quot;iopub.execute_input&quot;:&quot;2026-06-24T06:21:01.337386Z&quot;,&quot;iopub.status.busy&quot;:&quot;2026-06-24T06:21:01.337185Z&quot;,&quot;iopub.status.idle&quot;:&quot;2026-06-24T06:21:01.527442Z&quot;,&quot;shell.execute_reply&quot;:&quot;2026-06-24T06:21:01.526531Z&quot;}}" data-execution_count="29">
 <details open="" class="code-fold">
 <summary>Code</summary>
 <div class="sourceCode cell-code" id="cb41"><pre class="sourceCode numberSource python number-lines"><code class="sourceCode python"><span id="cb41-1"><a href=""></a><span class="co"># Prepare to store max_depth values and corresponding accuracies</span></span>
@@ -1194,7 +1194,7 @@ Is this image a grape?</code></pre>
 
 <section id="perceptron-1" class="title-slide slide level1 center">
 <h1>Perceptron</h1>
-<div id="38b9e754" class="cell" data-quarto-private-1="{&quot;key&quot;:&quot;execution&quot;,&quot;value&quot;:{&quot;iopub.execute_input&quot;:&quot;2026-06-23T17:45:00.708196Z&quot;,&quot;iopub.status.busy&quot;:&quot;2026-06-23T17:45:00.707981Z&quot;,&quot;iopub.status.idle&quot;:&quot;2026-06-23T17:45:01.167082Z&quot;,&quot;shell.execute_reply&quot;:&quot;2026-06-23T17:45:01.166201Z&quot;}}" data-execution_count="30">
+<div id="38b9e754" class="cell" data-quarto-private-1="{&quot;key&quot;:&quot;execution&quot;,&quot;value&quot;:{&quot;iopub.execute_input&quot;:&quot;2026-06-24T06:21:01.529625Z&quot;,&quot;iopub.status.busy&quot;:&quot;2026-06-24T06:21:01.529266Z&quot;,&quot;iopub.status.idle&quot;:&quot;2026-06-24T06:21:01.989962Z&quot;,&quot;shell.execute_reply&quot;:&quot;2026-06-24T06:21:01.988968Z&quot;}}" data-execution_count="30">
 <details open="" class="code-fold">
 <summary>Code</summary>
 <div class="sourceCode cell-code" id="cb43"><pre class="sourceCode numberSource python number-lines"><code class="sourceCode python"><span id="cb43-1"><a href=""></a><span class="im">from</span> sklearn.linear_model <span class="im">import</span> Perceptron</span>
@@ -1207,7 +1207,7 @@ Is this image a grape?</code></pre>
 
 <section id="perceptron-changing-the-seed" class="title-slide slide level1 center">
 <h1>Perceptron: changing the seed</h1>
-<div id="04c0a645" class="cell" data-quarto-private-1="{&quot;key&quot;:&quot;execution&quot;,&quot;value&quot;:{&quot;iopub.execute_input&quot;:&quot;2026-06-23T17:45:01.168972Z&quot;,&quot;iopub.status.busy&quot;:&quot;2026-06-23T17:45:01.168788Z&quot;,&quot;iopub.status.idle&quot;:&quot;2026-06-23T17:45:01.627152Z&quot;,&quot;shell.execute_reply&quot;:&quot;2026-06-23T17:45:01.626324Z&quot;}}" data-execution_count="31">
+<div id="04c0a645" class="cell" data-quarto-private-1="{&quot;key&quot;:&quot;execution&quot;,&quot;value&quot;:{&quot;iopub.execute_input&quot;:&quot;2026-06-24T06:21:01.991912Z&quot;,&quot;iopub.status.busy&quot;:&quot;2026-06-24T06:21:01.991712Z&quot;,&quot;iopub.status.idle&quot;:&quot;2026-06-24T06:21:02.451383Z&quot;,&quot;shell.execute_reply&quot;:&quot;2026-06-24T06:21:02.450451Z&quot;}}" data-execution_count="31">
 <details open="" class="code-fold">
 <summary>Code</summary>
 <div class="sourceCode cell-code" id="cb44"><pre class="sourceCode numberSource python number-lines"><code class="sourceCode python"><span id="cb44-1"><a href=""></a>perceptron <span class="op">=</span> plot_boundary(Perceptron(random_state<span class="op">=</span><span class="dv">1</span>), <span class="st">"perceptron_cplot"</span>)</span></code></pre></div>
@@ -1218,7 +1218,7 @@ Is this image a grape?</code></pre>
 
 <section id="multi-layer-perceptron" class="title-slide slide level1 center">
 <h1>Multi-layer perceptron</h1>
-<div id="56b111d2" class="cell" data-quarto-private-1="{&quot;key&quot;:&quot;execution&quot;,&quot;value&quot;:{&quot;iopub.execute_input&quot;:&quot;2026-06-23T17:45:01.629451Z&quot;,&quot;iopub.status.busy&quot;:&quot;2026-06-23T17:45:01.629274Z&quot;,&quot;iopub.status.idle&quot;:&quot;2026-06-23T17:45:02.495343Z&quot;,&quot;shell.execute_reply&quot;:&quot;2026-06-23T17:45:02.494227Z&quot;}}" data-execution_count="32">
+<div id="56b111d2" class="cell" data-quarto-private-1="{&quot;key&quot;:&quot;execution&quot;,&quot;value&quot;:{&quot;iopub.execute_input&quot;:&quot;2026-06-24T06:21:02.453239Z&quot;,&quot;iopub.status.busy&quot;:&quot;2026-06-24T06:21:02.453043Z&quot;,&quot;iopub.status.idle&quot;:&quot;2026-06-24T06:21:03.308029Z&quot;,&quot;shell.execute_reply&quot;:&quot;2026-06-24T06:21:03.307116Z&quot;}}" data-execution_count="32">
 <details open="" class="code-fold">
 <summary>Code</summary>
 <div class="sourceCode cell-code" id="cb45"><pre class="sourceCode numberSource python number-lines"><code class="sourceCode python"><span id="cb45-1"><a href=""></a><span class="im">from</span> sklearn.neural_network <span class="im">import</span> MLPClassifier</span>
